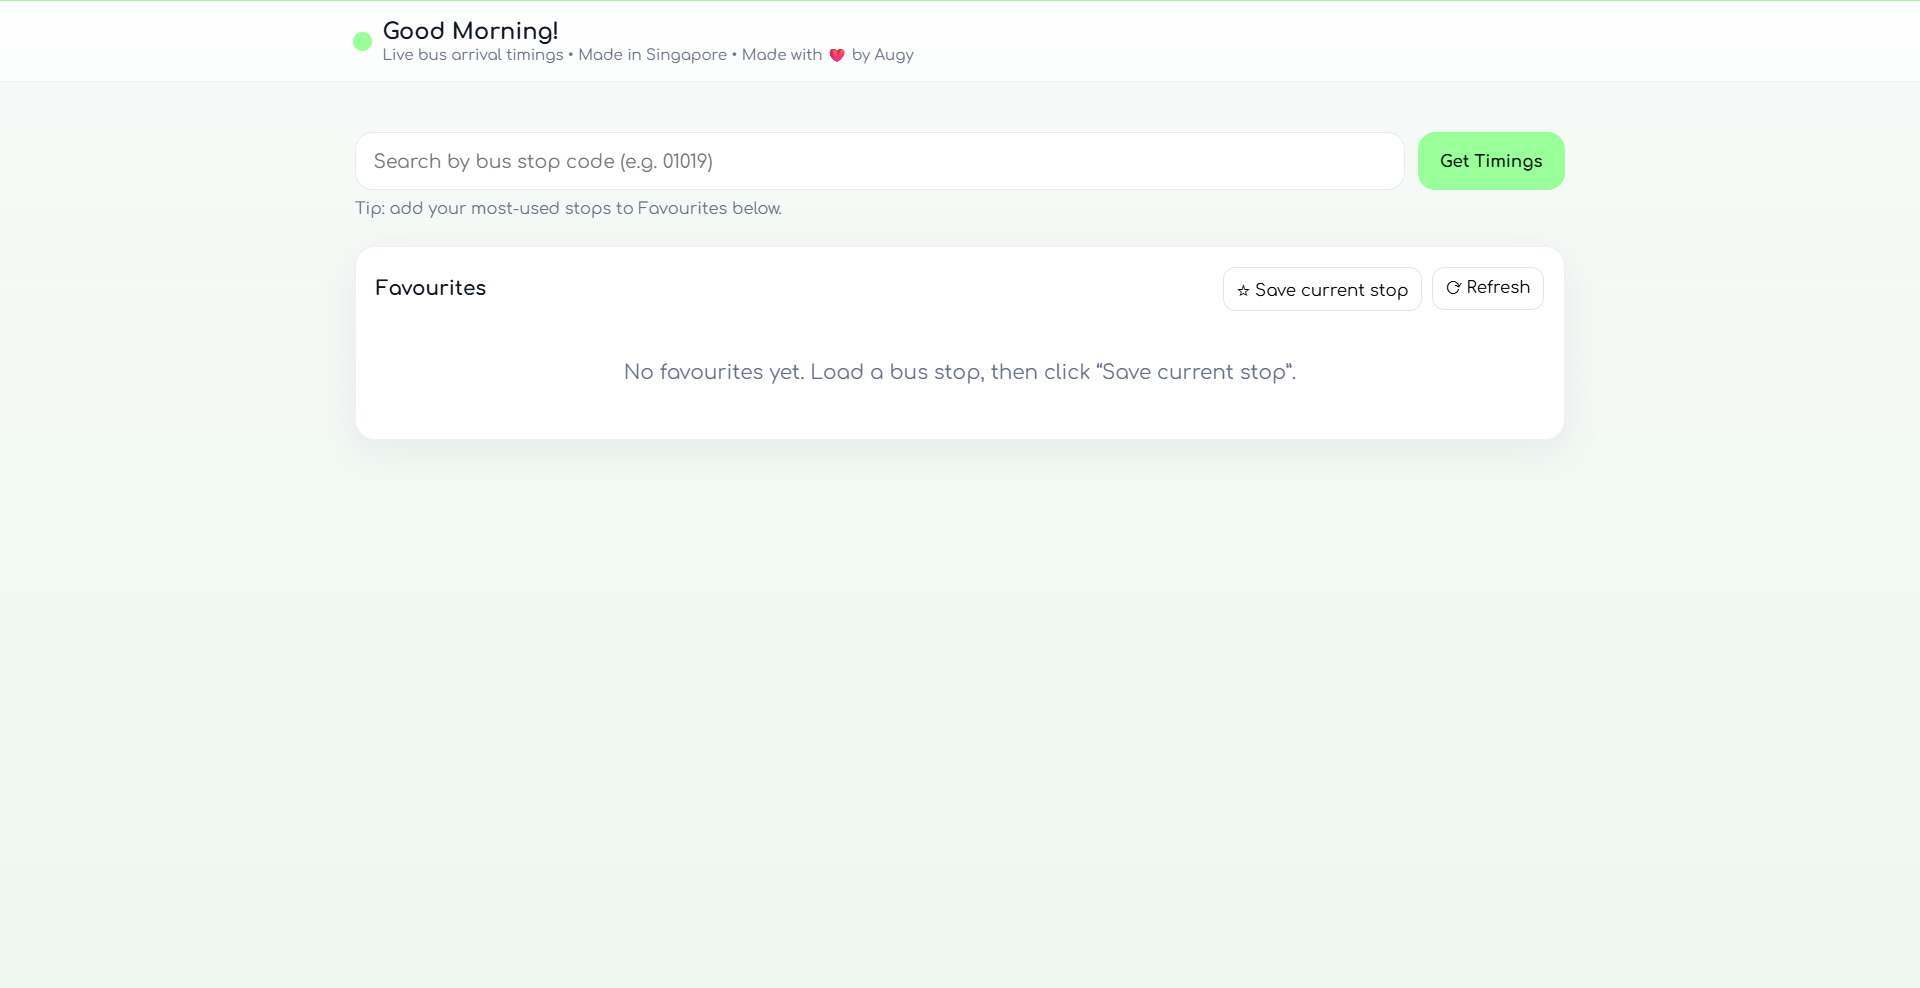
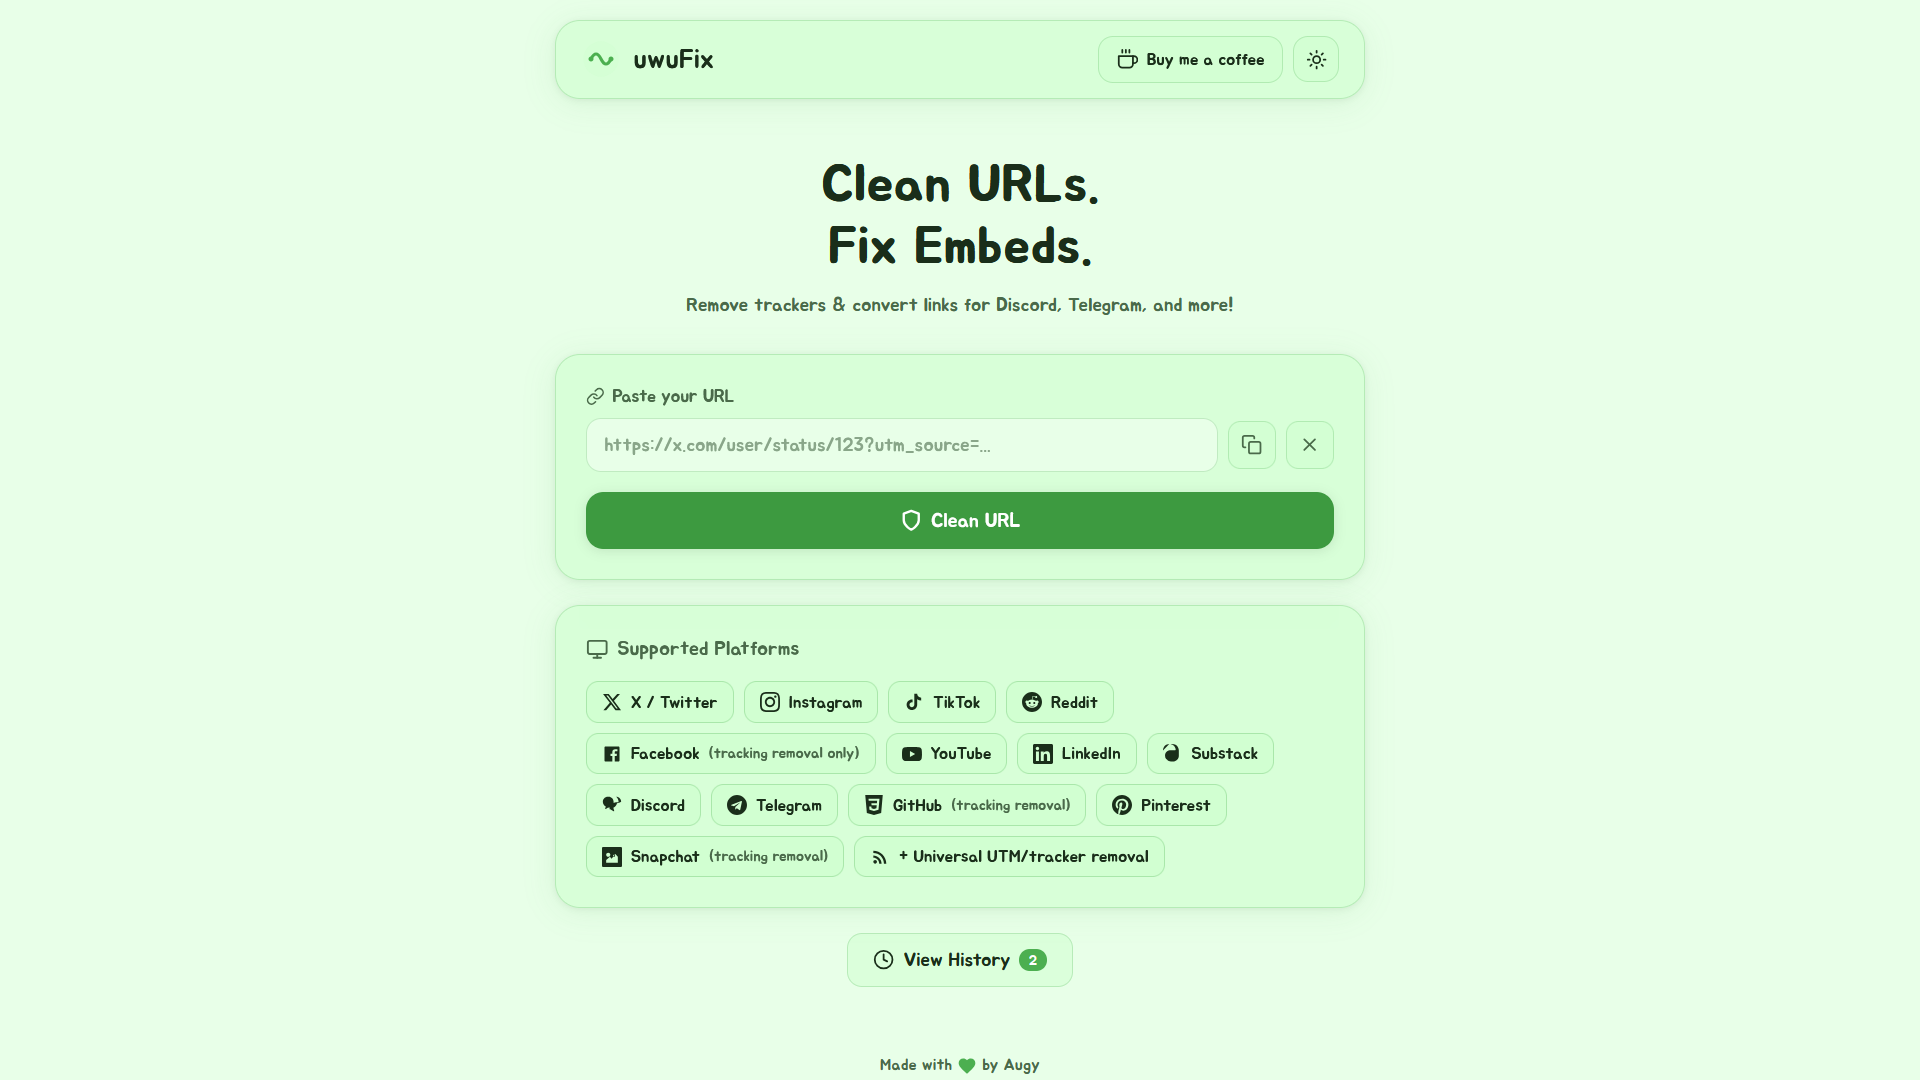
update README with features and usage instructions; update service worker cache version and assets

diff --git a/sw.js b/sw.js
@@ -1,10 +1,11 @@
-const CACHE = 'uwufix-v7';
+const CACHE = 'uwufix-v8';
 const ASSETS = [
   '/',
   '/index.html',
   '/style.css',
   '/script.js',
   '/manifest.json',
+  '/UFX-main.png',
   '/UFX-192.png',
   '/UFX-512.png',
   'https://fonts.googleapis.com/css2?family=Jua&display=swap',

diff --git a/README.md b/README.md
@@ -1,3 +1,32 @@
-# pwa-template
-Augy Studios PWA sites template
-Note: The `/api` folder is meant for Vercel serverless functions. Remove if not required.
+# uwuFix - Link Fixer
+
+Clean URLs, remove trackers, and fix embeds - all in your browser.
+
+## Features
+
+- **Tracker Removal** - Strips UTM parameters, click IDs, and platform-specific tracking from any URL
+- **Embed Fixing** - Converts links to embed-friendly domains for better previews on Discord, Telegram, and more
+- **Platform Support** - X/Twitter, Instagram, TikTok, Reddit, Bluesky, YouTube, Facebook, LinkedIn, Substack, GitHub, Discord, Pinterest, Snapchat, and more
+- **Discord Cleanup** - Normalizes `canary.discord.com` and `ptb.discord.com` links to `discord.com`
+- **Google Search Extraction** - Pulls the actual destination URL from Google Search redirect links
+- **History** - Keeps a local log of cleaned URLs with per-entry deletion
+- **Themes** - Multiple color themes to choose from
+- **PWA** - Installable as a progressive web app, works offline
+- **Privacy** - All processing happens client-side. No data is sent to any server.
+
+## How to Use
+
+1. Paste a URL into the input field (or use the clipboard paste button)
+2. Click **Clean URL** (or press Enter)
+3. Copy, open, or share the cleaned result
+4. Use **View History** to revisit previously cleaned URLs
+
+You can also pass a URL via query string: `https://yoursite.com/?url=https://example.com/...`
+
+## Development
+
+This is a static site - just serve the root directory with any HTTP server:
+
+```bash
+npx serve .
+```